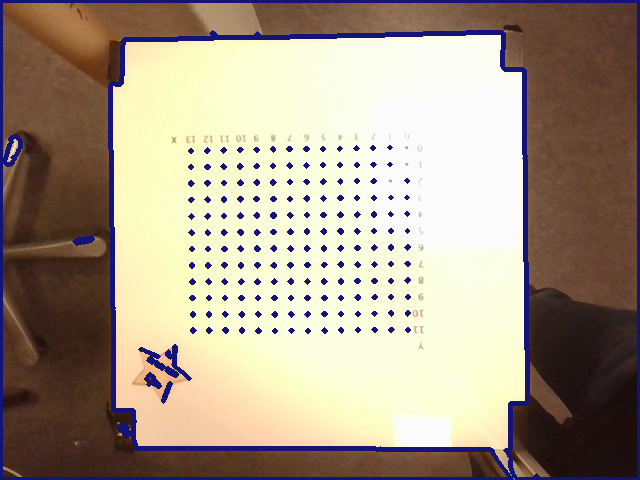
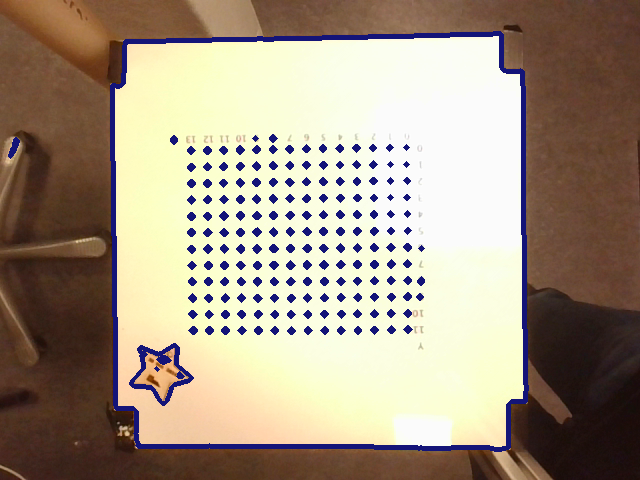
filters out some

diff --git a/camera.py b/camera.py
@@ -1,6 +1,7 @@
 import cv2
 import numpy as np
-from matplotlib import pyplot as plt
+from sklearn.neighbors import KDTree
+from sklearn.neighbors import NearestNeighbors
 
 
 class Camera:
@@ -18,11 +19,44 @@ class Camera:
         grey = cv2.cvtColor(image, cv2.COLOR_BGR2GRAY)
         cv2.imwrite("DEBUG-grey.png", grey)
 
-        _, thresh = cv2.threshold(grey, 254, 255, cv2.THRESH_BINARY_INV|cv2.THRESH_OTSU)
+        gauss = cv2.GaussianBlur(grey,(5,5),0)
+        cv2.imwrite("DEBUG-gauss.png", gauss)
+
+        _, thresh = cv2.threshold(gauss, 200, 255, cv2.THRESH_BINARY)
         cv2.imwrite("DEBUG-thresh.png", thresh)
         cnts, _ = cv2.findContours(thresh, cv2.RETR_LIST, cv2.CHAIN_APPROX_SIMPLE)
         cimg = cv2.drawContours(image, cnts,-1, (120,20,20),3)
-        cv2.imwrite("result.png", cimg)
+        cv2.imwrite("DEBUG-cont.png", cimg)
+
+        centers = []
+
+        for c in cnts:
+            M = cv2.moments(c)
+            cX = int(M["m10"] / M["m00"]) if M["m00"] != 0 else 0
+            cY = int(M["m01"] / M["m00"]) if M["m00"] != 0 else 0
+            
+            centers.append((cX,cY))
+
+        tree = KDTree(centers)
+
+        refined_centers = set()
+
+        for center in centers:
+            for idx_arr in tree.query_radius([center], r=20):
+                if len(idx_arr) > 3:
+                    for idx in idx_arr:
+                        refined_centers.add(centers[idx])
+
+        for center in refined_centers:
+            image = cv2.circle(image, center, 5, (20,120,20))
+
+        cv2.imshow("lol",image)
+        cv2.waitKey(0)
+
+
+        
+
+
 
 
 cam = Camera()
